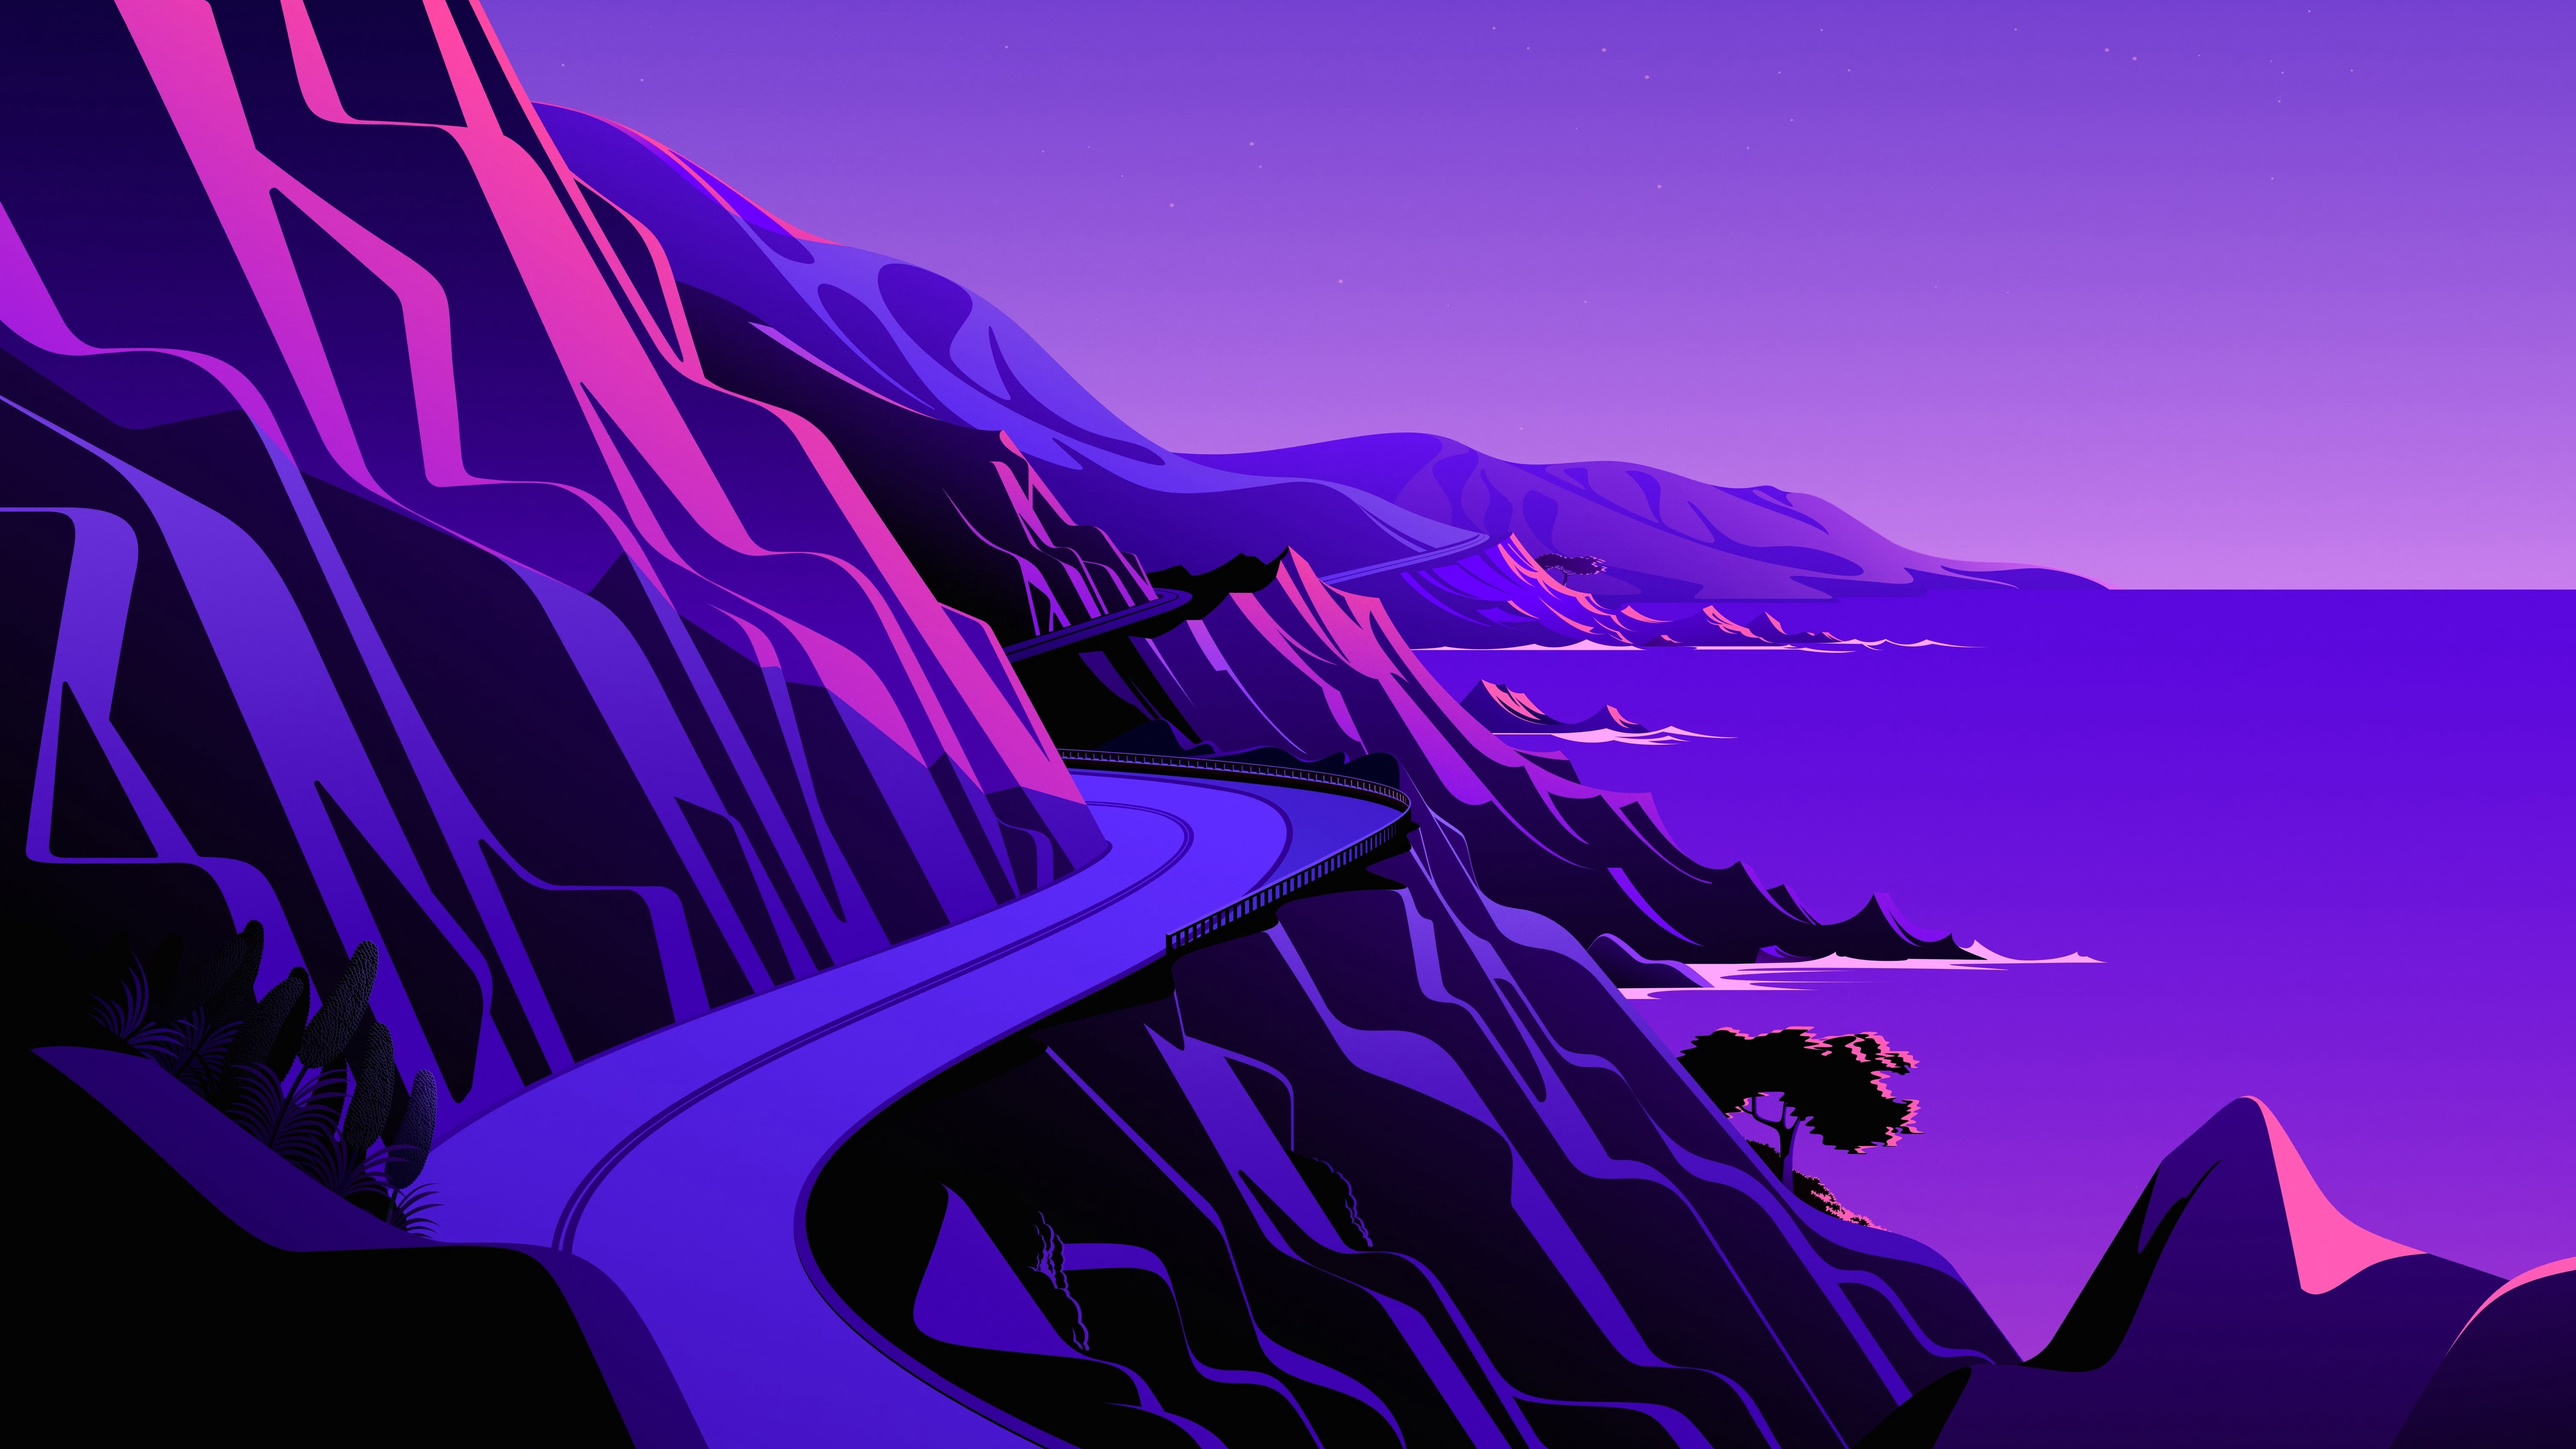
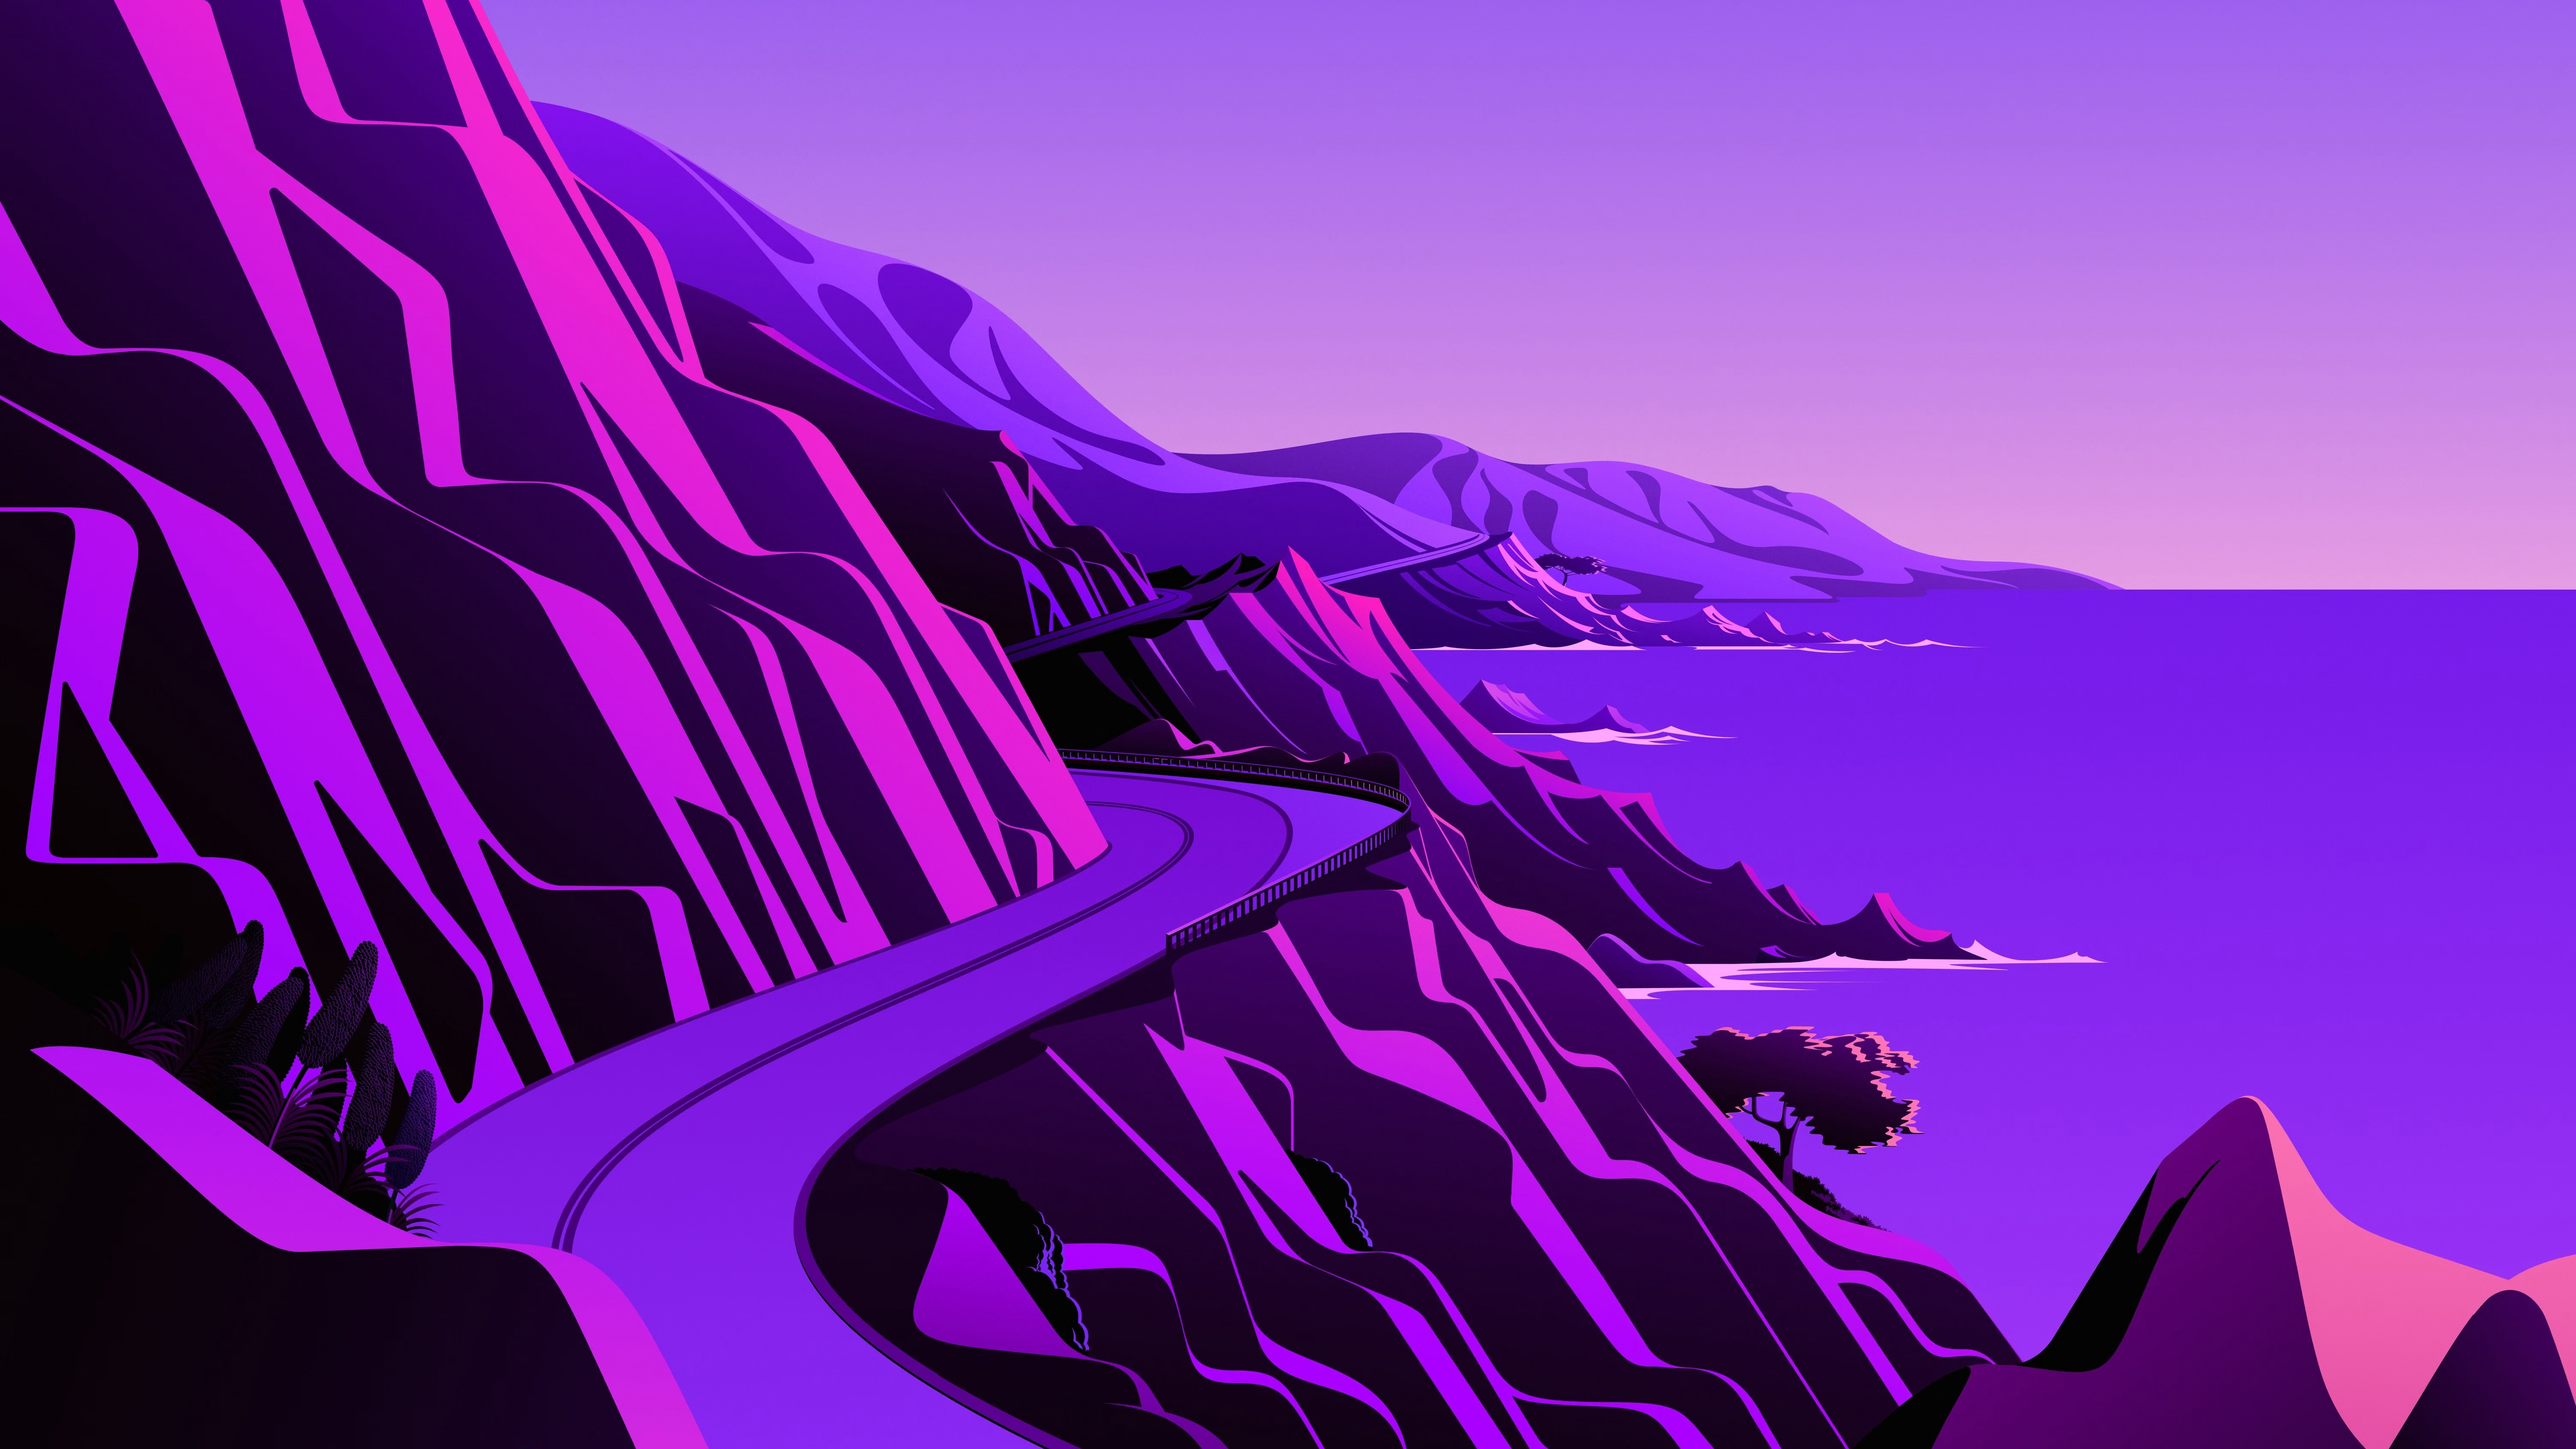
Add smooth hourly wallpaper transitions

diff --git a/README.md b/README.md
@@ -2,11 +2,11 @@
 
 Dynamic wallpaper for [Omarchy](https://omarchy.org) — automatically changes based on the time of day.
 
-Images are named by hour (`0.jpg`, `6.jpg`, `12.jpg`, etc.) and the script picks the closest match for the current time. Runs hourly via a systemd timer.
+Images are named by hour (`0.jpg`, `6.jpg`, `12.jpg`, etc.) and the script picks the closest match for the current time. During the final five minutes of an hour, it asks the Omarchy background shell to blend toward the next image so the change reads more like the day passing.
 
 Includes **cliffs** as an example wallpaper set with 24 images (one per hour).
 
-Requires Omarchy 4 or later — the background is applied with `omarchy-theme-bg-set`.
+Requires Omarchy 4 or later — the background is applied through Omarchy's current background state link, with shell IPC used for smooth transitions when available.
 
 ## Installation
 
